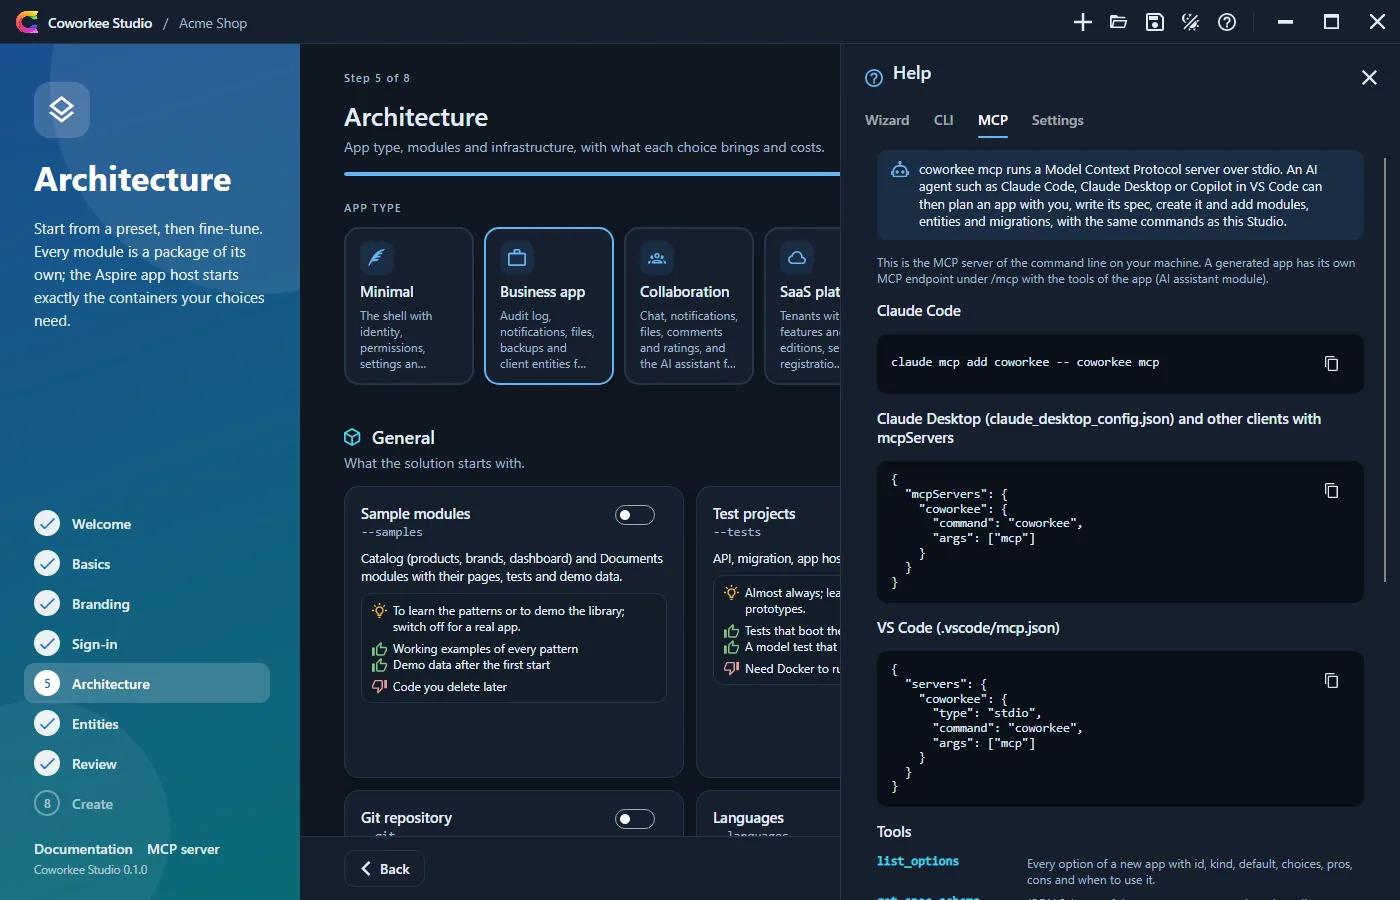
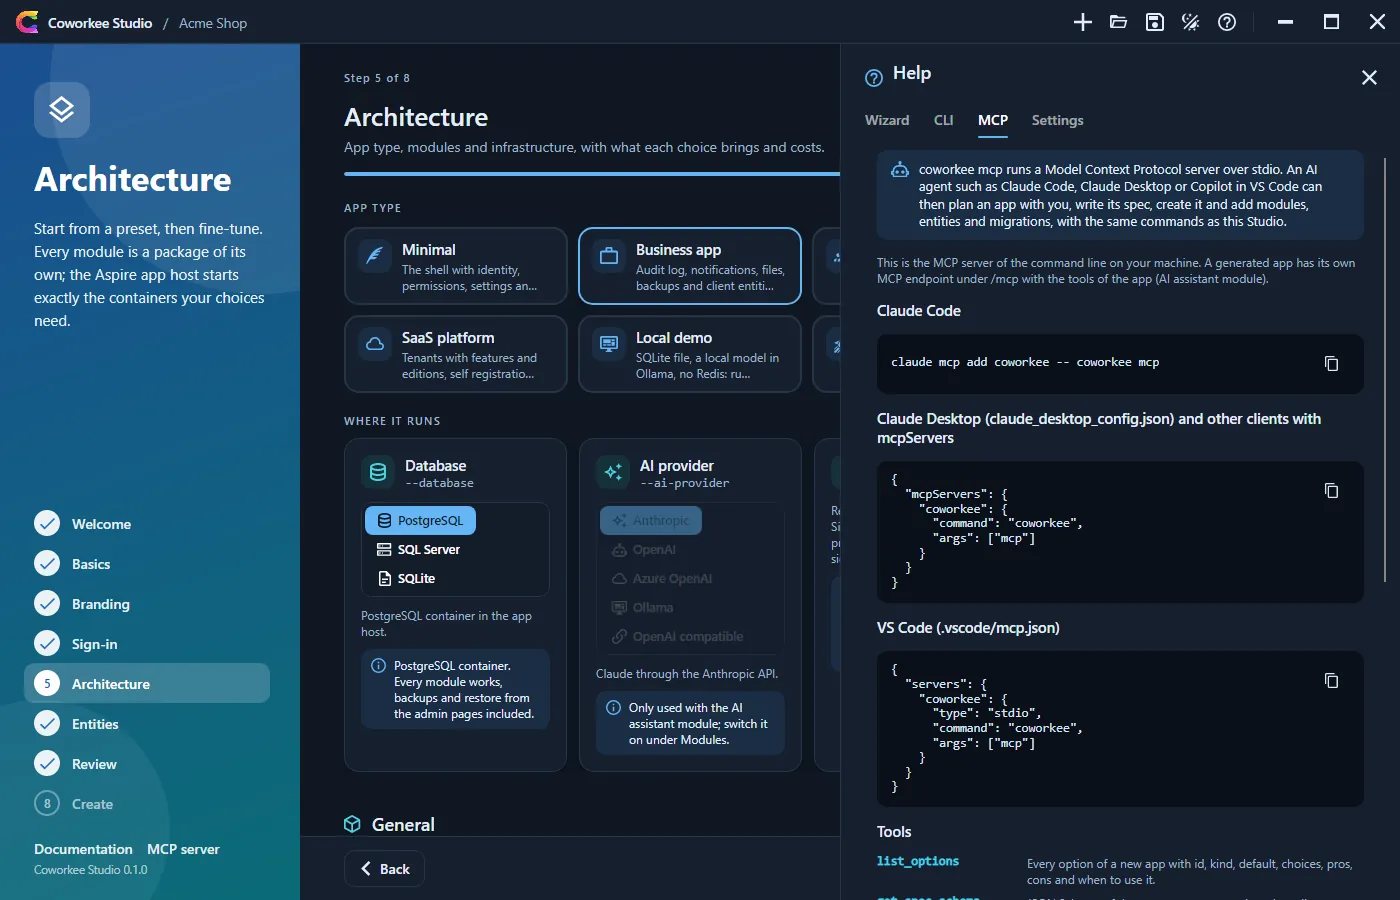
docs: Studio page explains presets and infrastructure choices, screenshots regenerated

diff --git a/website/docs/getting-started/studio.de.md b/website/docs/getting-started/studio.de.md
@@ -56,7 +56,24 @@ Karte, Split oder Slide, gezeichnet als kleine animierte Skizzen der echten [Anm
 
 ### Architektur
 
-Vorlagen für den App-Typ (Minimal, Business-App, Teamarbeit, SaaS-Plattform, Alles) setzen Module und Infrastruktur; danach lässt sich jede Option von `coworkee options` ändern: Beschreibung, Vor- und Nachteile, wann sie passt, das Paket und der Schalter von `coworkee new`. *Allgemein* enthält auch die Sprachen (Kästchen für die mitgelieferten, keines angekreuzt bietet alle an), die Standardsprache, den Farbmodus und die Selbstregistrierung; *Werkzeuge* legt einen GitHub-Actions-Workflow und einen Dev-Container an. Das Panel rechts zeigt, was die Solution enthalten wird: Projekte, die Container des Aspire-AppHosts (Postgres oder SQL Server, Redis, Mailpit, Elasticsearch, RabbitMQ, Azurite, Keycloak, Ollama) und die Coworkee-Pakete.
+Vorlagen für den App-Typ setzen Module und Infrastruktur, jede mit ihrem Kompromiss im Text:
+
+| Vorlage | Datenbank | KI-Anbieter | Redis | Für |
+|---|---|---|---|---|
+| Minimal | Postgres | (kein Assistent) | aus | Die Oberfläche, eine Instanz; Module kommen später |
+| Business-App | Postgres | (kein Assistent) | an | Audit-Log, Dateien, Backups, Client-Entities, CI |
+| Teamarbeit | Postgres | Anthropic | an | Chat, Kommentare und der Assistent über Instanzen hinweg |
+| SaaS-Plattform | Postgres | Azure OpenAI | an | Mandanten, Editionen, Keycloak, RabbitMQ, Azure Blob |
+| Lokale Demo | SQLite | Ollama | aus | Offline auf einem Rechner ohne Schlüssel; nur ein Schreiber gleichzeitig, keine Backups |
+| Alles | Postgres | Ollama | an | Jedes Modul und jeder Container |
+
+**Wo sie läuft** stellt die drei Entscheidungen nach vorn, die bestimmen, wie die App läuft, jede mit ihrer Bedeutung direkt darunter:
+
+- **Datenbank**: PostgreSQL (jedes Modul, Backups über die Admin-Seiten), SQL Server (keine Backups über die Admin-Seiten, ein schwerer Container) oder SQLite (kein Container, eine Datei unter `.data`, nur ein Schreiber gleichzeitig, Hintergrundjobs im Speicher, keine Backups). Ohne Postgres ist das Modul *Datenbank-Backups* ausgegraut und nicht Teil der App.
+- **KI-Anbieter**: Anthropic, OpenAI, Azure OpenAI, Ollama oder ein OpenAI-kompatibler Endpunkt. Er zählt nur mit dem Modul *KI-Assistent*; ohne ist die Auswahl ausgegraut. Ollama bringt einen Container mit, der ein lokales Modell lädt; die anderen nehmen ihren Schlüssel aus den User Secrets des AppHosts (`Parameters:ai-apikey`, dazu `ai-endpoint` und `ai-model` bei Azure OpenAI und kompatiblen Endpunkten) oder später aus den KI-Einstellungen der App.
+- **Redis**: SignalR-Backplane, gemeinsame Anwesenheit, Caches und Anmeldesitzungen über Instanzen hinweg; ohne bleibt alles im jeweiligen Prozess, was für eine Instanz reicht.
+
+Danach lässt sich jede weitere Option von `coworkee options` ändern: Beschreibung, Vor- und Nachteile, wann sie passt, das Paket und der Schalter von `coworkee new`. *Allgemein* enthält auch die Sprachen (Kästchen für die mitgelieferten, keines angekreuzt bietet alle an), die Standardsprache, den Farbmodus und die Selbstregistrierung; *Werkzeuge* legt einen GitHub-Actions-Workflow und einen Dev-Container an. Das Panel rechts zeigt, was die Solution enthalten wird: Projekte, die Container des Aspire-AppHosts (PostgreSQL oder SQL Server, Redis, Mailpit, Elasticsearch, RabbitMQ, Azurite, Keycloak, Ollama) und die Coworkee-Pakete.
 
 ![Architektur](../assets/screenshots/studio-architecture-light-de.webp)
 
@@ -68,7 +85,7 @@ Feature-Module mit ihren Entities: Name, Plural, Client-Entity, DTO-Mapping und 
 
 ### Prüfen
 
-Die Zusammenfassung, die Prüfung nach den Regeln der CLI, die Spezifikation als JSON (kopieren oder speichern) und die passenden Befehlszeilen: `coworkee new --spec` mit allem und `coworkee new` mit Schaltern für dieselbe App ohne Entities. Logo und Medien aus anderen Ordnern werden beim Speichern neben die Spezifikation kopiert, denn die CLI liest Dateien einer Spezifikation nur aus deren Ordner.
+Die Zusammenfassung (mit Datenbank, KI-Anbieter, Redis, den Containern, Farbmodus, Selbstregistrierung und Werkzeugen), die Prüfung nach den Regeln der CLI, die Spezifikation als JSON (kopieren oder speichern) und die passenden Befehlszeilen: `coworkee new --spec` mit allem und `coworkee new` mit Schaltern für dieselbe App ohne Entities. Logo und Medien aus anderen Ordnern werden beim Speichern neben die Spezifikation kopiert, denn die CLI liest Dateien einer Spezifikation nur aus deren Ordner.
 
 ![Prüfen](../assets/screenshots/studio-review-light-de.webp)
 

diff --git a/website/docs/getting-started/studio.md b/website/docs/getting-started/studio.md
@@ -56,7 +56,24 @@ Card, Split or Slide, drawn as small animated sketches of the real [sign-in page
 
 ### Architecture
 
-Presets for the app type (Minimal, Business app, Collaboration, SaaS platform, Everything) set the modules and infrastructure; then every option of `coworkee options` can be changed: description, pros, cons, when to use it, the package and the switch of `coworkee new`. *General* also holds the languages (check boxes for the shipped ones, none checked offers all), the default language, the color mode and self registration; *Tooling* adds a GitHub Actions workflow and a dev container. The panel on the right lists what the solution will contain: projects, the containers of the Aspire app host (Postgres or SQL Server, Redis, Mailpit, Elasticsearch, RabbitMQ, Azurite, Keycloak, Ollama) and the Coworkee packages.
+Presets for the app type set the modules and the infrastructure, each with its trade-off in the text:
+
+| Preset | Database | AI provider | Redis | For |
+|---|---|---|---|---|
+| Minimal | Postgres | (no assistant) | off | The shell, one instance; add modules later |
+| Business app | Postgres | (no assistant) | on | Audit log, files, backups, client entities, CI |
+| Collaboration | Postgres | Anthropic | on | Chat, comments and the assistant across instances |
+| SaaS platform | Postgres | Azure OpenAI | on | Tenants, editions, Keycloak, RabbitMQ, Azure Blob |
+| Local demo | SQLite | Ollama | off | Offline on one machine without keys; one writer at a time, no backups |
+| Everything | Postgres | Ollama | on | Every module and every container |
+
+**Where it runs** puts the three choices that decide how the app runs first, each with what it means right below:
+
+- **Database**: PostgreSQL (every module, backups from the admin pages), SQL Server (no backups from the admin pages, a heavy container) or SQLite (no container, one file under `.data`, one writer at a time, background jobs in memory, no backups). Off Postgres, the *Database backups* module is greyed out and left out of the app.
+- **AI provider**: Anthropic, OpenAI, Azure OpenAI, Ollama or an OpenAI compatible endpoint. It only counts with the *AI assistant* module; without it the choice is greyed out. Ollama adds a container that pulls a local model; the others take their key from the user secrets of the app host (`Parameters:ai-apikey`, plus `ai-endpoint` and `ai-model` for Azure OpenAI and compatible endpoints) or later from the AI settings of the app.
+- **Redis**: SignalR backplane, shared presence, caches and sign-in sessions across instances; without it everything stays in each process, which is fine for one instance.
+
+Then every other option of `coworkee options` can be changed: description, pros, cons, when to use it, the package and the switch of `coworkee new`. *General* also holds the languages (check boxes for the shipped ones, none checked offers all), the default language, the color mode and self registration; *Tooling* adds a GitHub Actions workflow and a dev container. The panel on the right lists what the solution will contain: projects, the containers of the Aspire app host (PostgreSQL or SQL Server, Redis, Mailpit, Elasticsearch, RabbitMQ, Azurite, Keycloak, Ollama) and the Coworkee packages.
 
 ![Architecture](../assets/screenshots/studio-architecture-dark.webp)
 
@@ -68,7 +85,7 @@ Feature modules with their entities: name, plural, client entity, DTO mapping an
 
 ### Review
 
-The summary, the validation with the rules of the CLI, the spec as JSON (copy or save it) and the equivalent command lines: `coworkee new --spec` with everything, and `coworkee new` with switches for the same app without entities. Logo and media from other folders are copied next to the spec when you save it, because the CLI reads files of a spec only from its folder.
+The summary (including database, AI provider, Redis, the containers, color mode, self registration and tooling), the validation with the rules of the CLI, the spec as JSON (copy or save it) and the equivalent command lines: `coworkee new --spec` with everything, and `coworkee new` with switches for the same app without entities. Logo and media from other folders are copied next to the spec when you save it, because the CLI reads files of a spec only from its folder.
 
 ![Review](../assets/screenshots/studio-review-light.webp)
 
